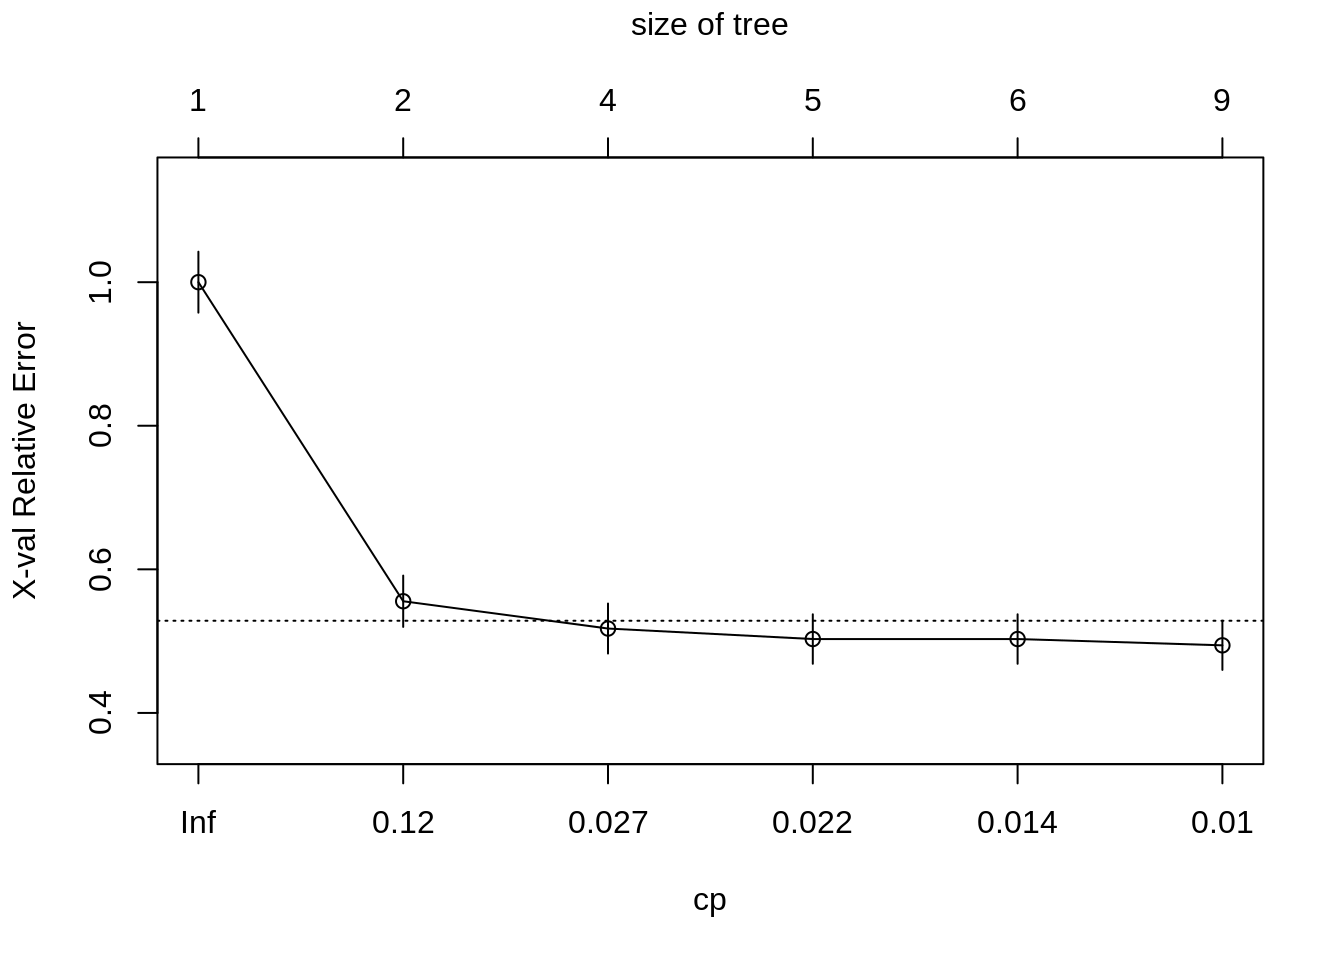
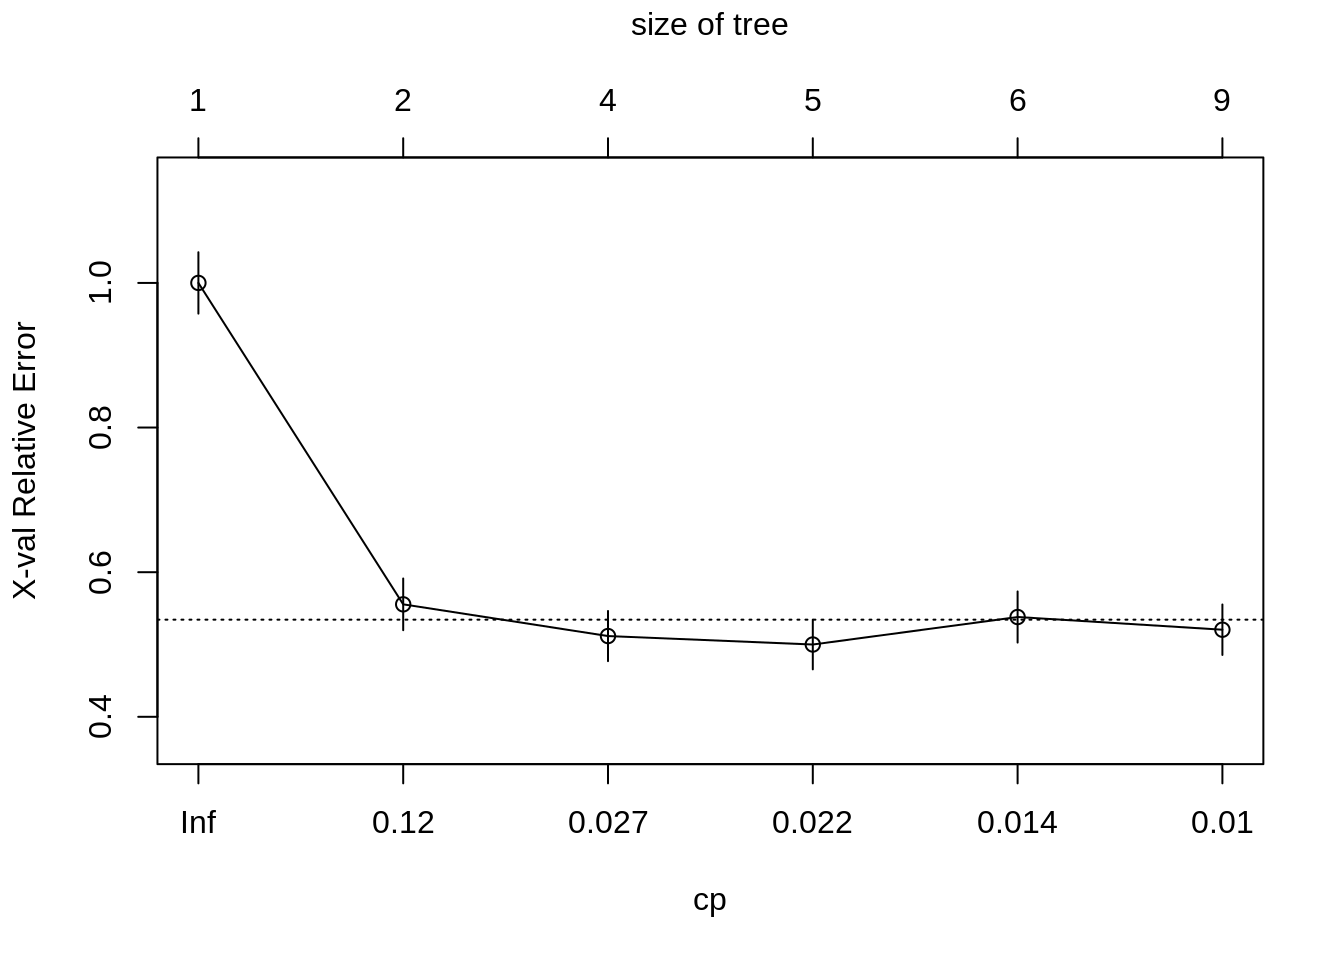
Deploy lebebr01/stat_thinking to github.com/lebebr01/stat_thinking.git:master

diff --git a/docs/classification.html b/docs/classification.html
@@ -329,10 +329,10 @@ titanic &lt;-<span class="st"> </span><span class="kw">bind_rows</span>(titanic_
 ##         CP nsplit rel error  xerror     xstd
 ## 1 0.444444      0   1.00000 1.00000 0.042446
 ## 2 0.030702      1   0.55556 0.55556 0.035750
-## 3 0.023392      3   0.49415 0.51754 0.034823
-## 4 0.020468      4   0.47076 0.50292 0.034448
-## 5 0.010234      5   0.45029 0.50292 0.034448
-## 6 0.010000      8   0.41813 0.49415 0.034217</code></pre>
+## 3 0.023392      3   0.49415 0.51170 0.034675
+## 4 0.020468      4   0.47076 0.50000 0.034372
+## 5 0.010234      5   0.45029 0.53801 0.035331
+## 6 0.010000      8   0.41813 0.52047 0.034897</code></pre>
 <div class="sourceCode"><pre class="sourceCode r"><code class="sourceCode r"><span class="kw">plotcp</span>(class_tree)</code></pre></div>
 <p><img src="05-classification_files/figure-html/unnamed-chunk-6-1.png" width="672" /></p>
 <div class="sourceCode"><pre class="sourceCode r"><code class="sourceCode r">prune_class_tree &lt;-<span class="st"> </span><span class="kw">prune</span>(class_tree, <span class="dt">cp =</span> .<span class="dv">02</span>)

diff --git a/docs/05-classification.md b/docs/05-classification.md
@@ -249,10 +249,10 @@ printcp(class_tree)
 ##         CP nsplit rel error  xerror     xstd
 ## 1 0.444444      0   1.00000 1.00000 0.042446
 ## 2 0.030702      1   0.55556 0.55556 0.035750
-## 3 0.023392      3   0.49415 0.51754 0.034823
-## 4 0.020468      4   0.47076 0.50292 0.034448
-## 5 0.010234      5   0.45029 0.50292 0.034448
-## 6 0.010000      8   0.41813 0.49415 0.034217
+## 3 0.023392      3   0.49415 0.51170 0.034675
+## 4 0.020468      4   0.47076 0.50000 0.034372
+## 5 0.010234      5   0.45029 0.53801 0.035331
+## 6 0.010000      8   0.41813 0.52047 0.034897
 ```
 
 ```r
